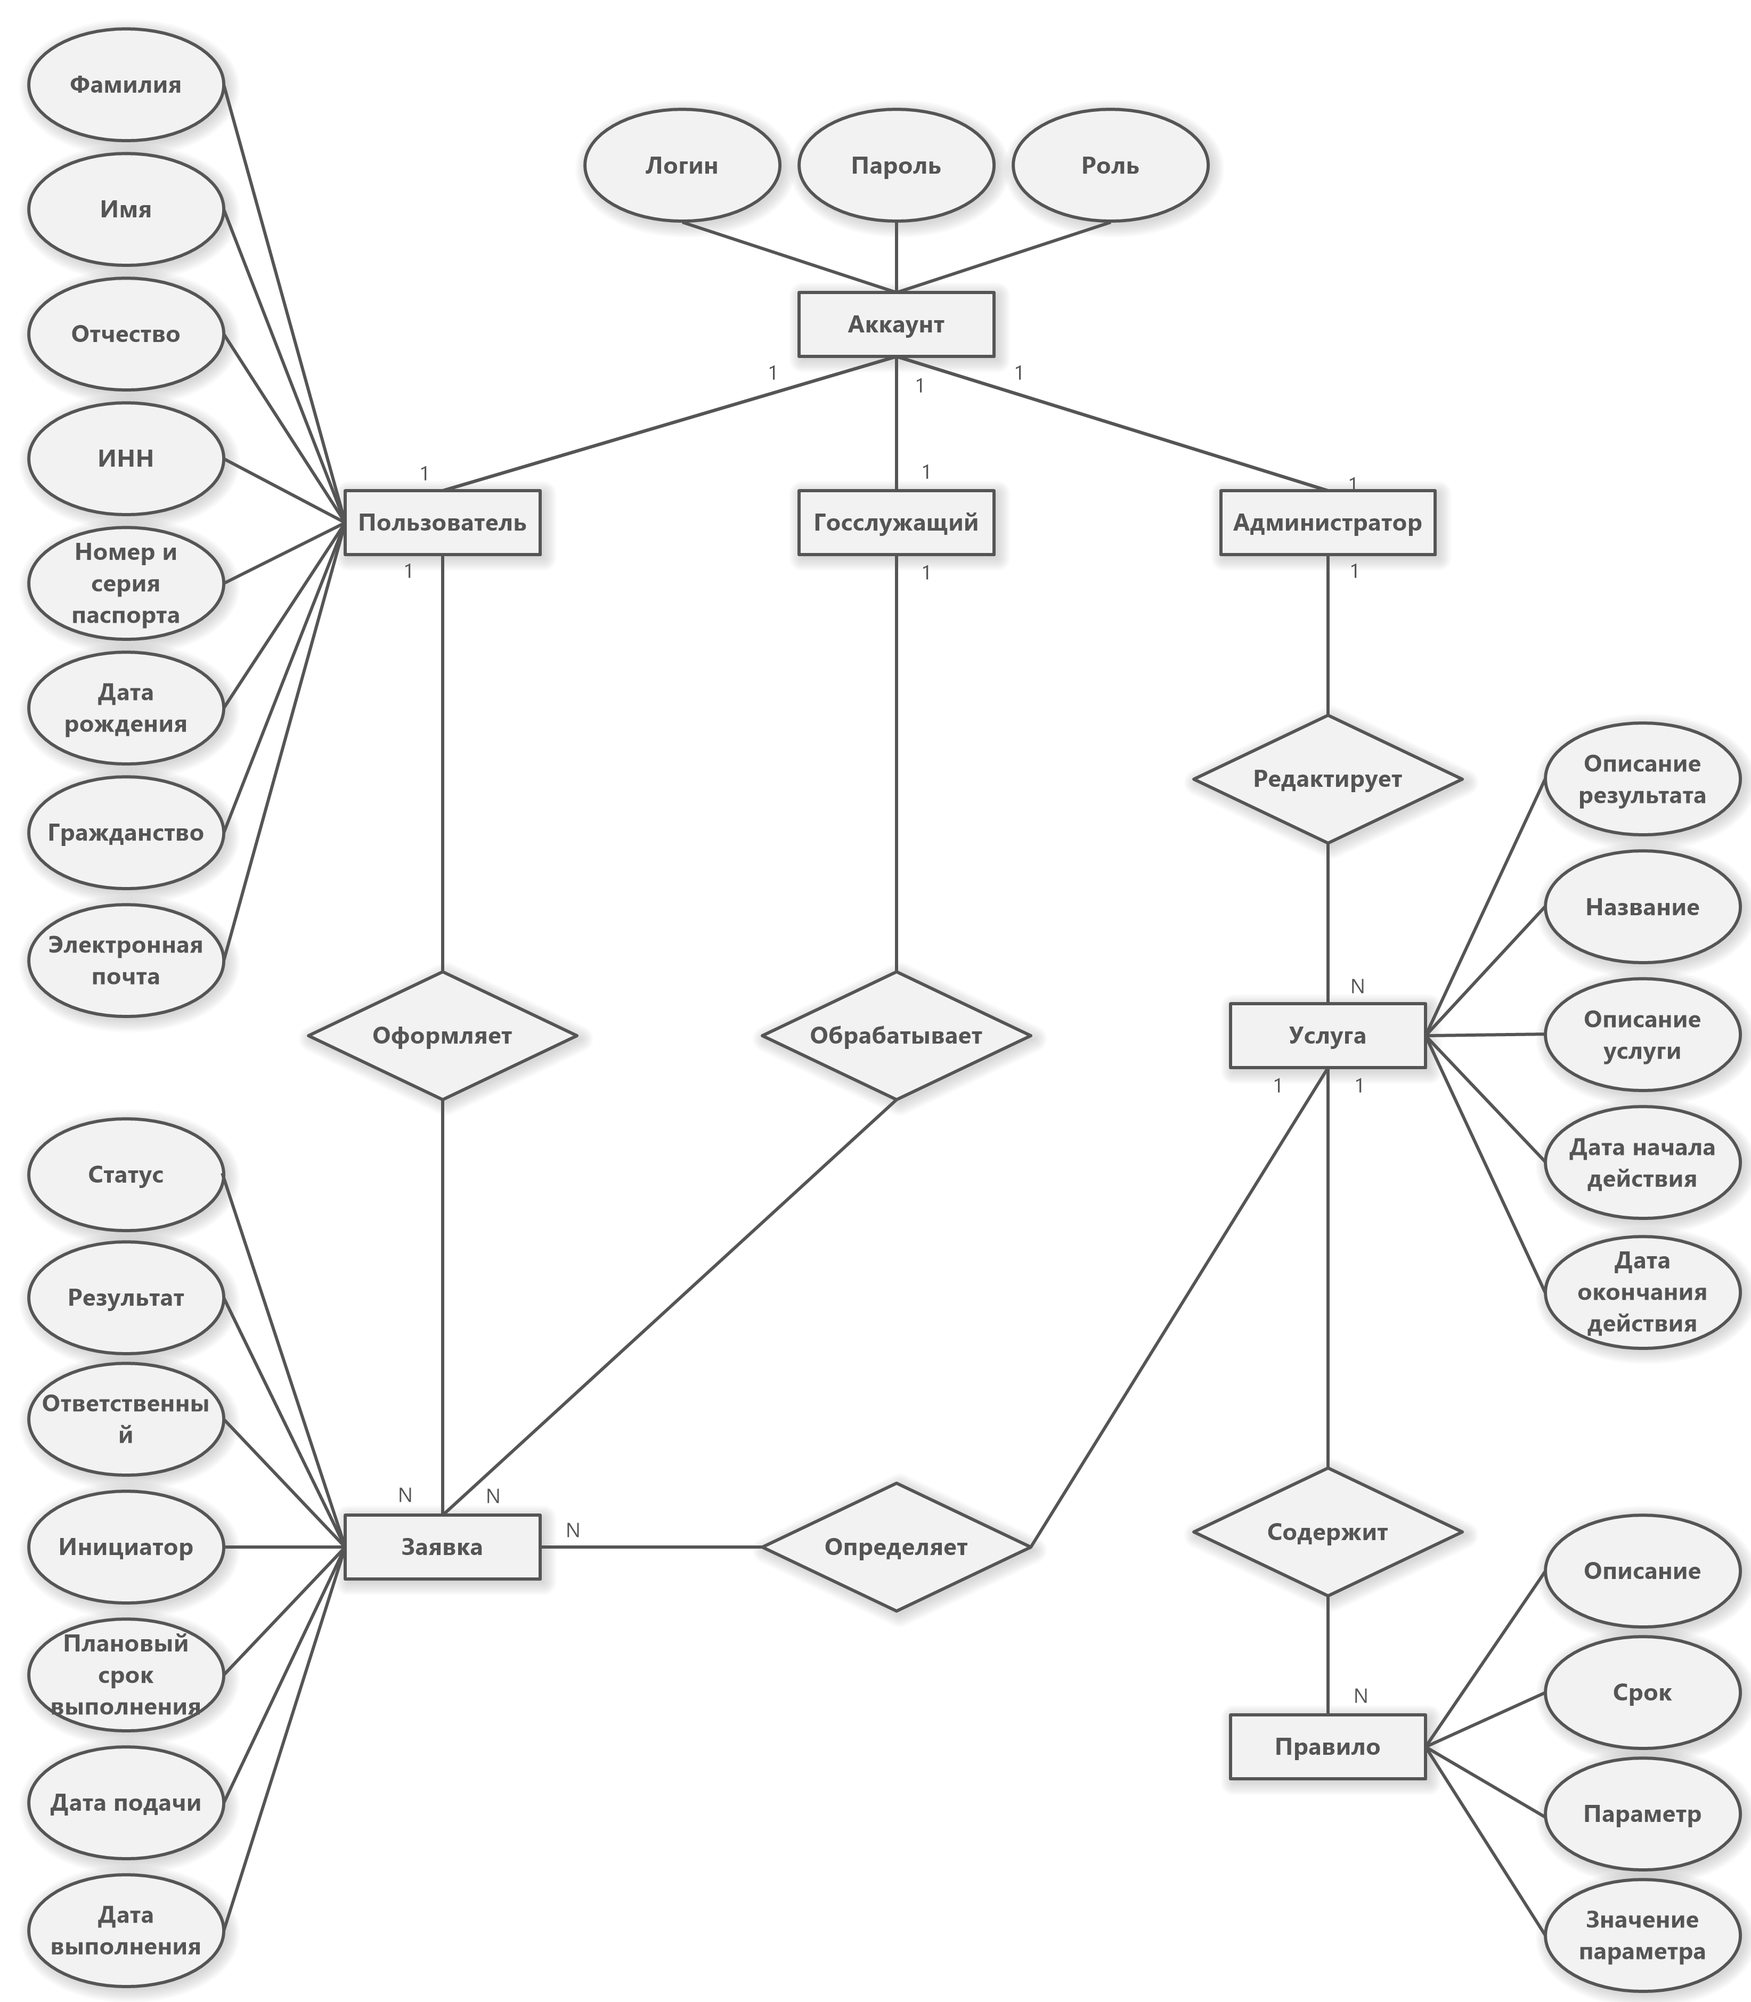
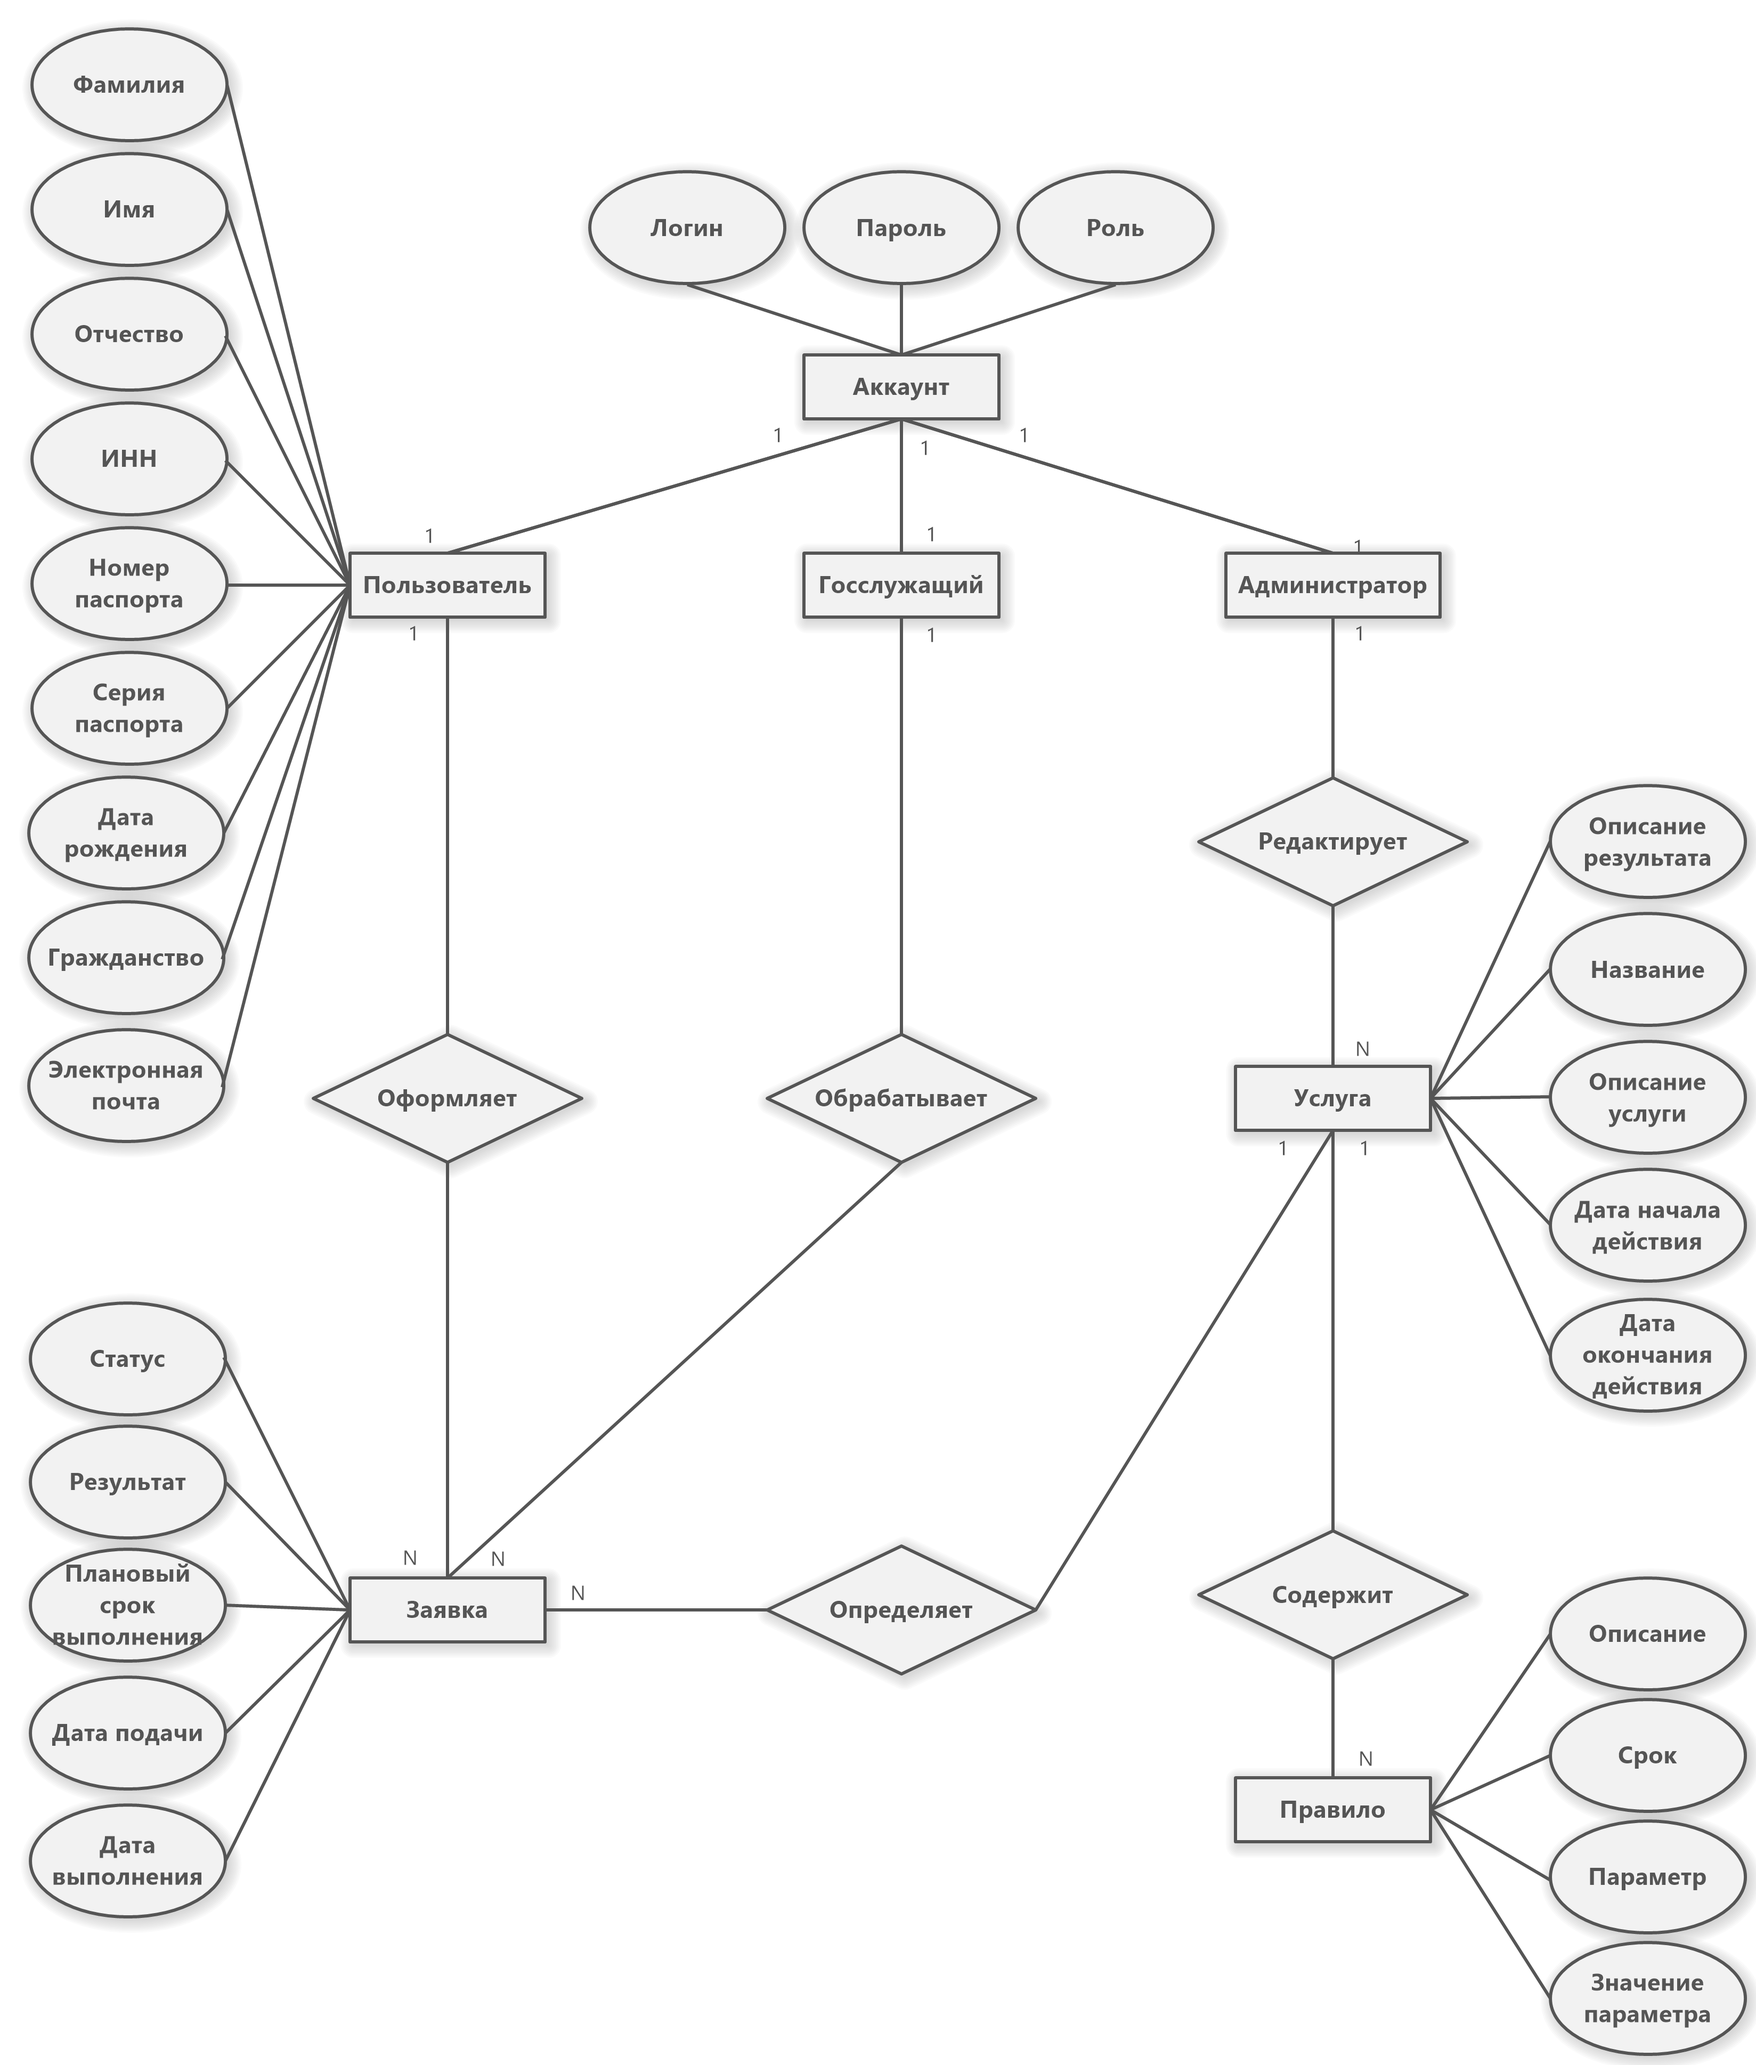
Remake ERD Three

diff --git a/2. Диаграмма сущностей (ERD)/Сущности.md b/2. Диаграмма сущностей (ERD)/Сущности.md
@@ -18,7 +18,8 @@
 - Имя
 - Отчество
 - ИНН
-- Номер и серия паспорта
+- Номер паспорта
+- Серия паспорта
 - Дата рождения
 - Гражданство
 - Электронная почта
@@ -59,8 +60,6 @@
 **Атрибуты**:
 - Статус — на рассмотрении / услуга оказана / отказано в услуге 
 - Результат — описание результата выполненной услуги
-- Ответственный — госслужащий, ответственный за выполнение услуги
-- Инициатор — пользователь, инициировавший выполнение услуги 
 - Плановый срок выполнения — количество дней, в течение которых услуга должна быть оказана
 - Дата подачи — дата, в которую пользователь подал заявку на услугу
 - Дата выполнения — дата завершения работ над услугой
